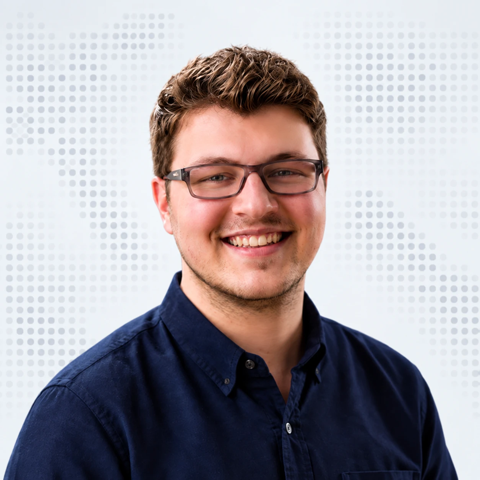
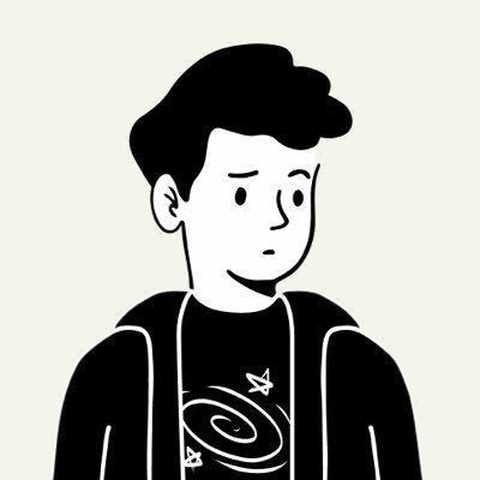
Use the GitHub profile picture on the home page, with the page background in both themes

diff --git a/index.html b/index.html
@@ -1,5 +1,5 @@
 <!doctype html>
-<html lang="en"><head><meta charset="utf-8"><meta name="viewport" content="width=device-width, initial-scale=1"><meta name="description" content="Zach Vivier — technical support, homelab projects, and learning by building."><title>Zach Vivier</title><link rel="icon" href="favicon.svg?v=3" type="image/svg+xml"><script>try{document.documentElement.dataset.theme=localStorage.getItem('zv-theme')||(matchMedia('(prefers-color-scheme: dark)').matches?'dark':'light')}catch{}</script><link rel="stylesheet" href="assets/site.css?v=18e639571ea3"><script defer src="assets/site.js"></script></head><body><a class="skip" href="#main">Skip to content</a><div class="shell"><header><a class="brand" href="index.html">Zach Vivier</a><nav aria-label="Main navigation"><a href="posts.html">Posts</a><a href="about.html">About</a><a class="icon-button" href="search.html" aria-label="Search" title="Search"><svg class="" viewBox="0 0 24 24" aria-hidden="true"><circle cx="10.5" cy="10.5" r="7.5"/><path d="m16 16 5 5"/></svg></a><button class="icon-button" data-theme-toggle aria-label="Switch theme" title="Toggle light and dark theme"><svg class="theme-moon" viewBox="0 0 24 24" aria-hidden="true"><path d="M20.7 13.4A8.8 8.8 0 0 1 10.6 3.3 9 9 0 1 0 20.7 13.4Z"/></svg><svg class="theme-sun" viewBox="0 0 24 24" aria-hidden="true"><circle cx="12" cy="12" r="4"/><path d="M12 2v2m0 16v2M2 12h2m16 0h2M5 5l1.5 1.5m11 11L19 19M5 19l1.5-1.5m11-11L19 5"/></svg></button></nav></header><main id="main"><section class="intro" aria-label="Introduction"><a class="avatar" href="about.html" aria-label="About Zach Vivier"><img class="photo-light" src="assets/zach-vivier-light.png?v=f2cab5d7" alt="Zach Vivier" width="480" height="480"><img class="photo-dark" src="assets/zach-vivier.png?v=1df7712e" alt="Zach Vivier" width="480" height="480"></a><div><h1>Hi, I'm Zach.</h1><p>Technical support, homelab experiments,<br class="desktop-break"> and learning by building.</p><div class="social"><a class="icon-button" href="https://github.com/zachvivier" aria-label="Zach Vivier on GitHub" title="GitHub"><svg class="" viewBox="0 0 24 24" aria-hidden="true"><path d="M9 19c-4 1-4-2-6-3m12 6v-3.5c0-1-.1-1.5-.5-2 3-.3 5.5-1.5 5.5-6A4.5 4.5 0 0 0 18.7 7c.2-.8.2-2-.2-3 0 0-1.1-.3-3.5 1.3a12 12 0 0 0-6 0C6.6 3.7 5.5 4 5.5 4c-.4 1-.4 2.2-.2 3A4.5 4.5 0 0 0 4 10.5c0 4.5 2.5 5.7 5.5 6-.4.5-.5 1-.5 2V22"/></svg></a><a class="icon-button" href="https://www.linkedin.com/in/zachvivier" aria-label="Zach Vivier on LinkedIn" title="LinkedIn"><svg viewBox="0 0 24 24" aria-hidden="true"><rect x="3" y="3" width="18" height="18" rx="3"/><path d="M7 10v7M7 7v.01M11 17v-7m0 3a3 3 0 0 1 6 0v4"/></svg></a><a class="icon-button" href="apps/" aria-label="Zach Vivier's iPhone apps" title="Apps"><svg viewBox="0 0 24 24" aria-hidden="true"><rect x="6" y="2" width="12" height="20" rx="3"/><path d="M10.5 5h3"/></svg></a></div></div></section><ul class="posts"><li data-search-item><h2><a href="posts/folding-at-home.html">Folding@home on My Framework</a></h2><time datetime="2026-10-19">Oct 19, 2026</time><p>How I put my Framework desktop on the Linus Tech Tips Folding@home team, and the double-helix loading icon I made for it.</p></li>
+<html lang="en"><head><meta charset="utf-8"><meta name="viewport" content="width=device-width, initial-scale=1"><meta name="description" content="Zach Vivier — technical support, homelab projects, and learning by building."><title>Zach Vivier</title><link rel="icon" href="favicon.svg?v=3" type="image/svg+xml"><script>try{document.documentElement.dataset.theme=localStorage.getItem('zv-theme')||(matchMedia('(prefers-color-scheme: dark)').matches?'dark':'light')}catch{}</script><link rel="stylesheet" href="assets/site.css?v=18e639571ea3"><script defer src="assets/site.js"></script></head><body><a class="skip" href="#main">Skip to content</a><div class="shell"><header><a class="brand" href="index.html">Zach Vivier</a><nav aria-label="Main navigation"><a href="posts.html">Posts</a><a href="about.html">About</a><a class="icon-button" href="search.html" aria-label="Search" title="Search"><svg class="" viewBox="0 0 24 24" aria-hidden="true"><circle cx="10.5" cy="10.5" r="7.5"/><path d="m16 16 5 5"/></svg></a><button class="icon-button" data-theme-toggle aria-label="Switch theme" title="Toggle light and dark theme"><svg class="theme-moon" viewBox="0 0 24 24" aria-hidden="true"><path d="M20.7 13.4A8.8 8.8 0 0 1 10.6 3.3 9 9 0 1 0 20.7 13.4Z"/></svg><svg class="theme-sun" viewBox="0 0 24 24" aria-hidden="true"><circle cx="12" cy="12" r="4"/><path d="M12 2v2m0 16v2M2 12h2m16 0h2M5 5l1.5 1.5m11 11L19 19M5 19l1.5-1.5m11-11L19 5"/></svg></button></nav></header><main id="main"><section class="intro" aria-label="Introduction"><a class="avatar" href="about.html" aria-label="About Zach Vivier"><img class="photo-light" src="assets/zach-vivier-light.png?v=7e104e52" alt="Zach Vivier" width="480" height="480"><img class="photo-dark" src="assets/zach-vivier.png?v=7e510dbe" alt="Zach Vivier" width="480" height="480"></a><div><h1>Hi, I'm Zach.</h1><p>Technical support, homelab experiments,<br class="desktop-break"> and learning by building.</p><div class="social"><a class="icon-button" href="https://github.com/zachvivier" aria-label="Zach Vivier on GitHub" title="GitHub"><svg class="" viewBox="0 0 24 24" aria-hidden="true"><path d="M9 19c-4 1-4-2-6-3m12 6v-3.5c0-1-.1-1.5-.5-2 3-.3 5.5-1.5 5.5-6A4.5 4.5 0 0 0 18.7 7c.2-.8.2-2-.2-3 0 0-1.1-.3-3.5 1.3a12 12 0 0 0-6 0C6.6 3.7 5.5 4 5.5 4c-.4 1-.4 2.2-.2 3A4.5 4.5 0 0 0 4 10.5c0 4.5 2.5 5.7 5.5 6-.4.5-.5 1-.5 2V22"/></svg></a><a class="icon-button" href="https://www.linkedin.com/in/zachvivier" aria-label="Zach Vivier on LinkedIn" title="LinkedIn"><svg viewBox="0 0 24 24" aria-hidden="true"><rect x="3" y="3" width="18" height="18" rx="3"/><path d="M7 10v7M7 7v.01M11 17v-7m0 3a3 3 0 0 1 6 0v4"/></svg></a><a class="icon-button" href="apps/" aria-label="Zach Vivier's iPhone apps" title="Apps"><svg viewBox="0 0 24 24" aria-hidden="true"><rect x="6" y="2" width="12" height="20" rx="3"/><path d="M10.5 5h3"/></svg></a></div></div></section><ul class="posts"><li data-search-item><h2><a href="posts/folding-at-home.html">Folding@home on My Framework</a></h2><time datetime="2026-10-19">Oct 19, 2026</time><p>How I put my Framework desktop on the Linus Tech Tips Folding@home team, and the double-helix loading icon I made for it.</p></li>
 <li data-search-item><h2><a href="posts/building-cozy-crafter.html">Building Cozy Crafter</a></h2><time datetime="2026-10-03">Oct 3, 2026</time><p>How I built a craft project tracker for my wife with Claude, with stickers drawn in code and the same three cats.</p></li>
 <li data-search-item><h2><a href="posts/ai-for-good-mimecast.html">AI for Good at Mimecast</a></h2><time datetime="2026-10-01">Oct 1, 2026</time><p>Helping a youth mentoring nonprofit use AI: a reusable Claude project for planning its quarterly mentor-mentee events, plus 1:1 coaching.</p></li>
 <li data-search-item><h2><a href="posts/building-cozy-reader.html">Building Cozy Reader</a></h2><time datetime="2026-09-29">Sep 29, 2026</time><p>How I built a reading tracker for my wife in one late night with Claude, complete with a reading timer and three pixel-art cats.</p></li><li data-search-item><h2><a href="posts/building-gamelog.html">Building Gamelog</a></h2><time datetime="2026-09-27">Sep 27, 2026</time><p>How I built an iPhone game tracker in about a day with Claude, and what support work taught me along the way.</p></li><li data-search-item><h2><a href="posts/what-is-support-engineering.html">What is Support Engineering?</a></h2><time datetime="2026-09-20">Sep 20, 2026</time><p>What the work involves, how the role changes as you grow, and what to look for in a support role.</p></li></ul><div class="all-posts"><a href="posts.html">All Posts <svg class="" viewBox="0 0 24 24" aria-hidden="true"><path d="M5 12h14m-6-6 6 6-6 6"/></svg></a></div></main><footer><span>Zach Vivier</span><div class="footer-links"><a href="about.html">About</a><span class="social-links"><a class="icon-button" href="https://github.com/zachvivier" aria-label="Zach Vivier on GitHub" title="GitHub"><svg class="" viewBox="0 0 24 24" aria-hidden="true"><path d="M9 19c-4 1-4-2-6-3m12 6v-3.5c0-1-.1-1.5-.5-2 3-.3 5.5-1.5 5.5-6A4.5 4.5 0 0 0 18.7 7c.2-.8.2-2-.2-3 0 0-1.1-.3-3.5 1.3a12 12 0 0 0-6 0C6.6 3.7 5.5 4 5.5 4c-.4 1-.4 2.2-.2 3A4.5 4.5 0 0 0 4 10.5c0 4.5 2.5 5.7 5.5 6-.4.5-.5 1-.5 2V22"/></svg></a><a class="icon-button" href="https://www.linkedin.com/in/zachvivier" aria-label="Zach Vivier on LinkedIn" title="LinkedIn"><svg viewBox="0 0 24 24" aria-hidden="true"><rect x="3" y="3" width="18" height="18" rx="3"/><path d="M7 10v7M7 7v.01M11 17v-7m0 3a3 3 0 0 1 6 0v4"/></svg></a><a class="icon-button" href="apps/" aria-label="Zach Vivier's iPhone apps" title="Apps"><svg viewBox="0 0 24 24" aria-hidden="true"><rect x="6" y="2" width="12" height="20" rx="3"/><path d="M10.5 5h3"/></svg></a></span></div></footer></div></body></html>
